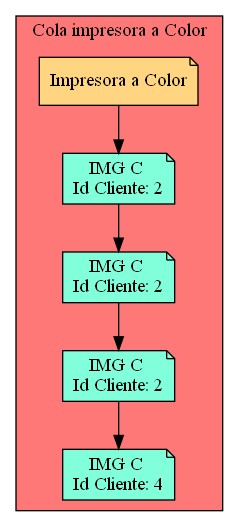
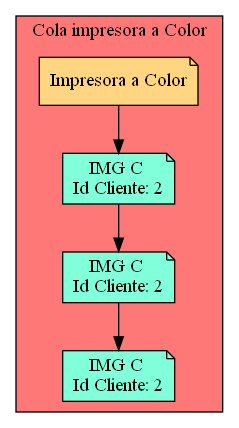
grafo basico fila espera

diff --git a/src/lists/Circular_Doble_espera.java b/src/lists/Circular_Doble_espera.java
@@ -117,7 +117,7 @@ public class Circular_Doble_espera {
 			Nodo_Doble_waiting_clients anterior = this.ultimo;
 			if (this.primero == this.ultimo) { 
 				if (actual.client.id == idClient) {
-					System.out.println("Cliente: " + actual.client.id + " salio del sistema last");
+					System.out.println("Cliente: " + actual.client.id + " salio del sistema");
 					this.primero = null;
 					this.ultimo = null;
 				}
@@ -160,15 +160,14 @@ public class Circular_Doble_espera {
 		dot.append("digraph L {\n");
 		dot.append("node[shape=note fillcolor=\"#A181FF\" style =filled]\n");
 		dot.append("subgraph cluster_p{\n");
-		dot.append("    label= \" Ventanillas \"\n");
+		dot.append("    label= \"Lista de Espera \"\n");
 		dot.append("    bgcolor = \"#FF7878\"\n");
 
 		String nombresNodos = "";
 		String conexiones = "";
 		Nodo_Doble_waiting_clients aux = this.primero;
 		
-		
-		while (aux != null) {
+		do {
 			String hashClient ="";
 			String infoClient ="";
 			String pilaImg ="";
@@ -176,14 +175,16 @@ public class Circular_Doble_espera {
 			
 			String info ="ID: " + aux.client.id + "\nNombre" + aux.client.name + "\nImg_C: " + aux.client.img_bwTotal + "\nImg_BN: " + aux.client.img_bwTotal;
 			//String info ="Ventanillas: " + aux.noVentanilla ;
-			nombresNodos += "Nodo" + aux.hashCode() + "[label=\"" + info + "\",fillcolor=\"#81FFDA\",group=" + aux.noVentanilla + "]\n";
+			nombresNodos += "Nodo" + aux.hashCode() + "[label=\"" + info + "\",fillcolor=\"#81FFDA\"]\n";
 			if (aux.next != null) {
 				conexiones += String.format("\nNodo%d -> Nodo%d\n", aux.hashCode(), aux.next.hashCode());
 				
 				}
 
 			aux = aux.next;
-		}
+		} while (aux != this.primero);
+		
+		
 		dot.append(nombresNodos);
 		dot.append(conexiones);
 
@@ -214,7 +215,21 @@ public class Circular_Doble_espera {
 	public void Draw_Graphiz() {
 
 		try {
-			Create_File("Circular_Doble_espera.dot", Text_Graphivz());
+			
+			if(isNone()) {
+				String graph = "digraph L {\r\n"
+						+ "node[shape=note fillcolor=\"#A181FF\" style =filled]\r\n"
+						+ "subgraph cluster_p{\r\n"
+						+ "    label= \"Lista de Espera\"\r\n"
+						+ "    bgcolor = \"#FF7878\"\r\n"
+						+ "Nodo1008925772[label=\"Vacio\",fillcolor=\"#81FFDA\"]\r\n"
+						+ "\r\n"
+						+ "}}";
+				Create_File("Circular_Doble_espera.dot", graph);
+			}else {
+				Create_File("Circular_Doble_espera.dot", Text_Graphivz());
+			}
+			
 			//System.out.println(Text_Graphivz());
 			ProcessBuilder pb;
 			pb = new ProcessBuilder("dot", "-Tpng", "-o", "Circular_Doble_espera.png", "Circular_Doble_espera.dot");

diff --git a/src/functionalities/general.java b/src/functionalities/general.java
@@ -20,6 +20,7 @@ public class general {
 		System.out.println("\n==================================");
 		System.out.println("====Sistema listo para simular====");
 		System.out.println("==================================\n");
+		Waiting_clients.Draw_Graphiz();
 		Data.Simpe_Ventanas.Draw_Graphiz();
 		Data.Cola_Recepcion.Draw_Graphiz();
 		printer_bw.Draw_Graphiz();
@@ -41,6 +42,7 @@ public class general {
 			
 			
 			//Genrar grafo
+			Waiting_clients.Draw_Graphiz();
 			Data.Cola_Recepcion.Draw_Graphiz();
 			Data.Simpe_Ventanas.Draw_Graphiz();
 			printer_bw.Draw_Graphiz();
